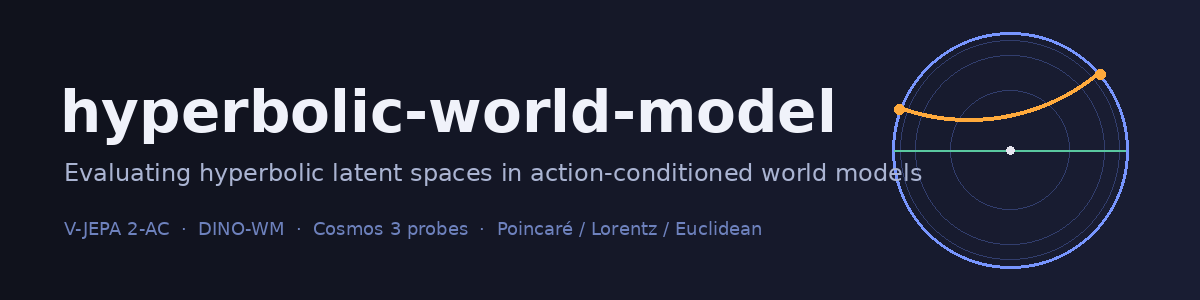
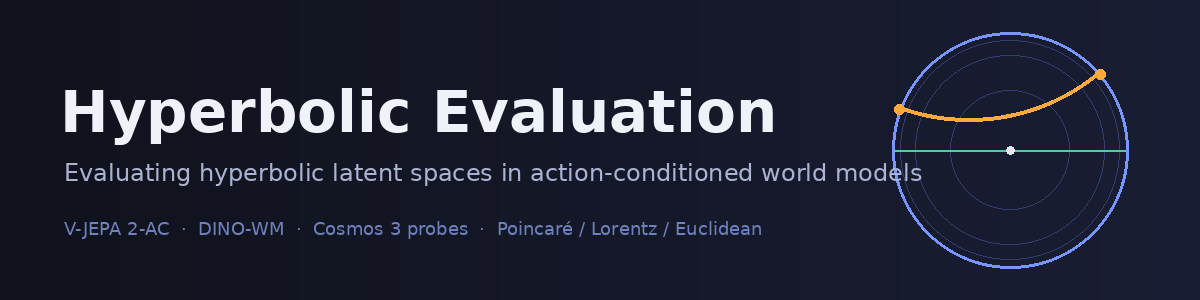
Rename README display title and header graphic to Hyperbolic Evaluation

Changed region(s): [[0.0617, 0.27, 0.5858, 0.48], [0.6167, 0.3, 0.7092, 0.45]]

diff --git a/README.md b/README.md
@@ -1,6 +1,6 @@
-[![hyperbolic-world-model](docs/header.png)](https://github.com/ATaylorAerospace/hyperbolic-world-model)
+[![Hyperbolic Evaluation](docs/header.png)](https://github.com/ATaylorAerospace/hyperbolic-world-model)
 
-# 🌀 hyperbolic-world-model - Hyperbolic Latent Evaluation for World Models 📐
+# 🌀 Hyperbolic Evaluation - Hyperbolic Latent Evaluation for World Models 📐
 
 [![CI](https://github.com/ATaylorAerospace/hyperbolic-world-model/actions/workflows/ci.yml/badge.svg)](https://github.com/ATaylorAerospace/hyperbolic-world-model/actions/workflows/ci.yml)
 [![License: Apache 2.0](https://img.shields.io/badge/License-Apache_2.0-blue.svg)](LICENSE)
